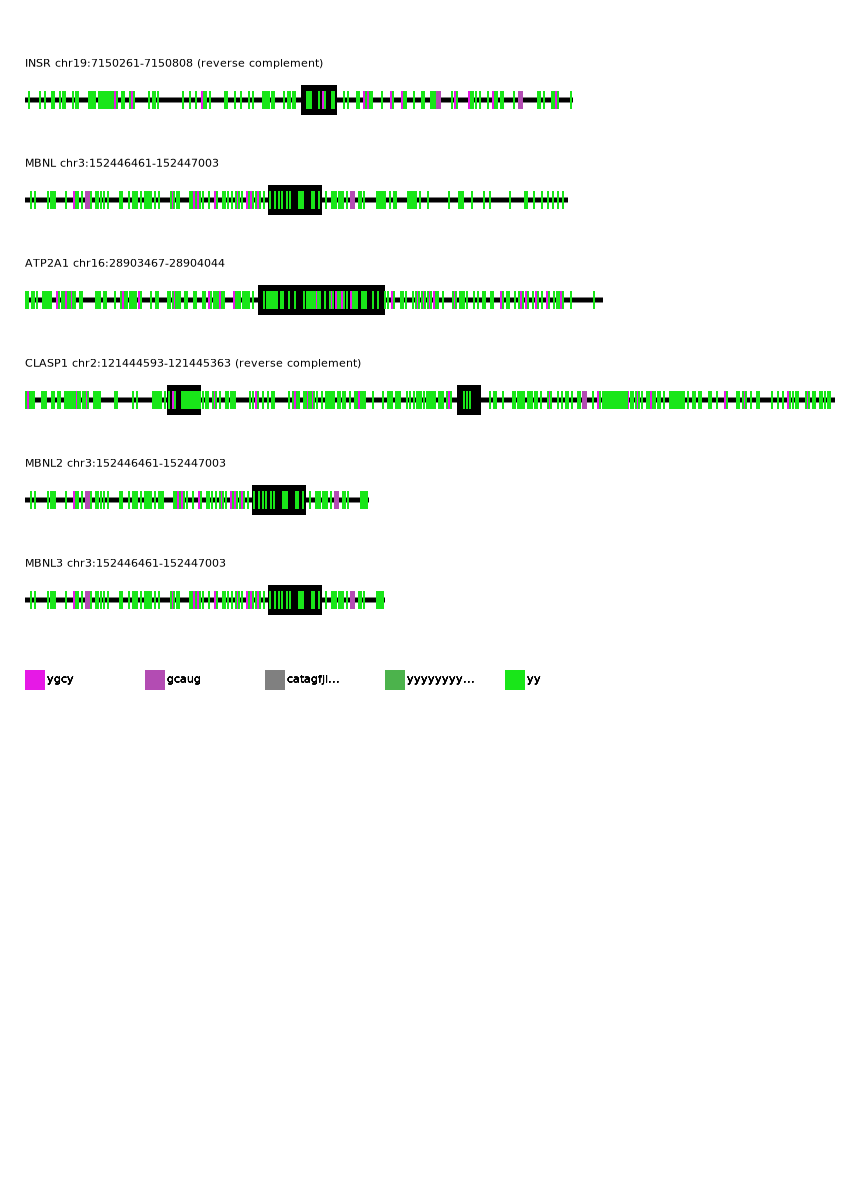
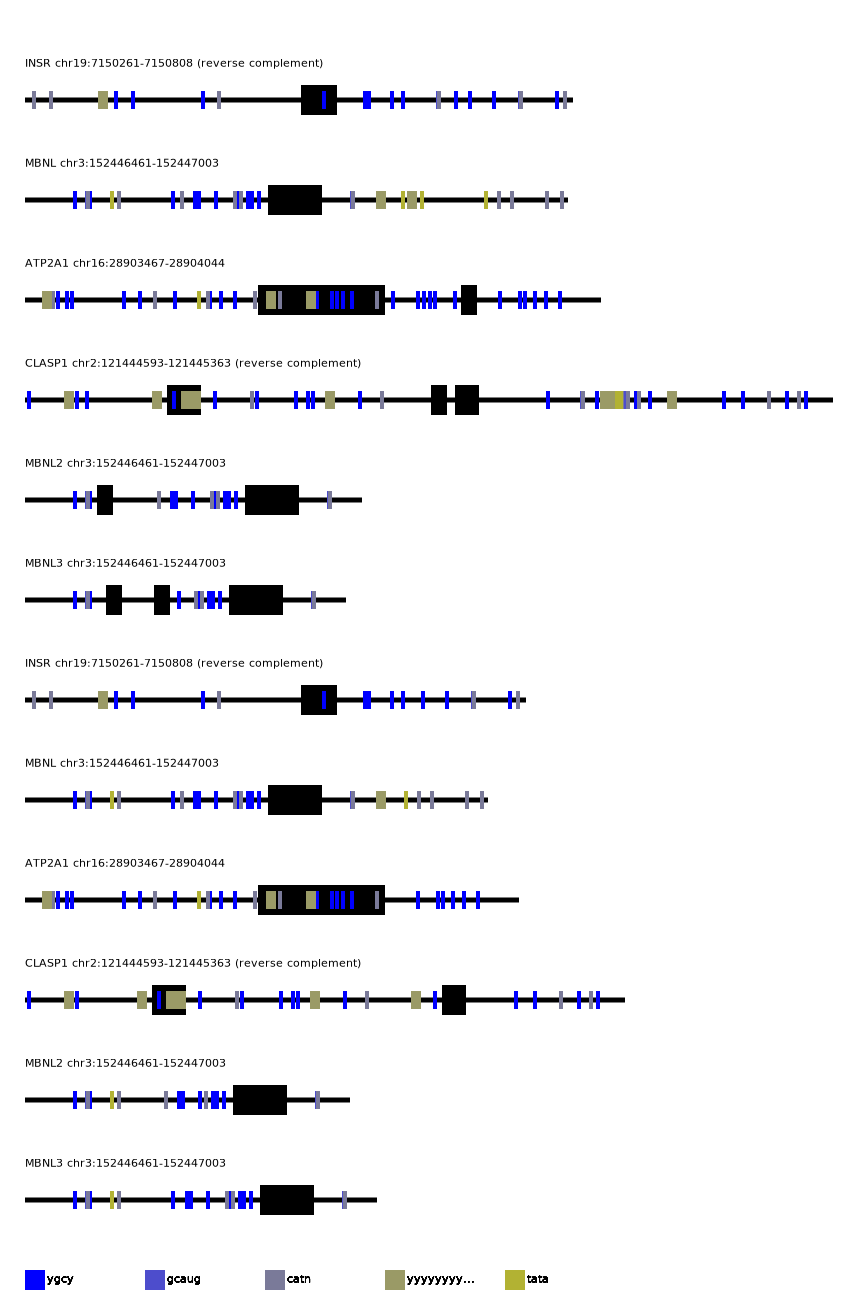
started writing readme

diff --git a/motif-mark-oop.py b/motif-mark-oop.py
@@ -111,23 +111,23 @@ class Motif:
     
     def colorit(self):
         # generate rgb colors # 
-        self.red:float = 1-((2*(self.number))-1)/10
-        self.green:float = ((2*(self.number))-1)/10
-        self.blue:float = 1-((2*(self.number))-1)/10 # limiting 0.2-0.8 guaruntees can't be white (1,1,1) or black (0,0,0)
-        self.color = (self.red, self.green, self.blue) # use tuple so order does not change because order = color
+        # self.red:float = 1-((2*(self.number))-2)/10
+        # self.green:float = (2*(self.number))/10 
+        # self.blue:float = 1-((2*(self.number))-2)/10 
+        self.red:float = math.log10(self.number)
+        self.green:float = math.log10(self.number)
+        self.blue:float = math.log10(self.number)
         return
 
 class Canvas: # the canvas I will be drawing on # 
     def __init__(self, totalsequences, longestsequence):
-        self.height:int = totalsequences*200
-        self.width:int = int(longest_sequence+50)
         self.buffer: int = 25
         self.constant: int = 100
-        # label information # 
+        self.height:int = (totalsequences*self.constant)+self.constant # add extra on the bottom to account for label
+        self.width:int = int(longest_sequence+(self.buffer*2))
+        # label position information # 
         self.xlabel = ((totalsequences+1)*self.constant)-30
         
-
-
 # >> define functions << # 
 
 # read in motifs into list # 

diff --git a/readme.md b/readme.md
@@ -1,0 +1,9 @@
+## Motif Mark 
+
+This program takes a FASTA file with exons denoted in caps, and a motif text file with one motif per line (case insensitive). The output is a single .png with one image per sequence, with motif and exon positions displayed positionally on the sequence, to scale.
+
+## Description
+ 
+ Written for Bi625 at BGMP. 
+ 
+ Aware of ambiguous nucleotides and inclusive of 'n's in sequence. e.g., 'ygcy' will match to 'tgnc'.
